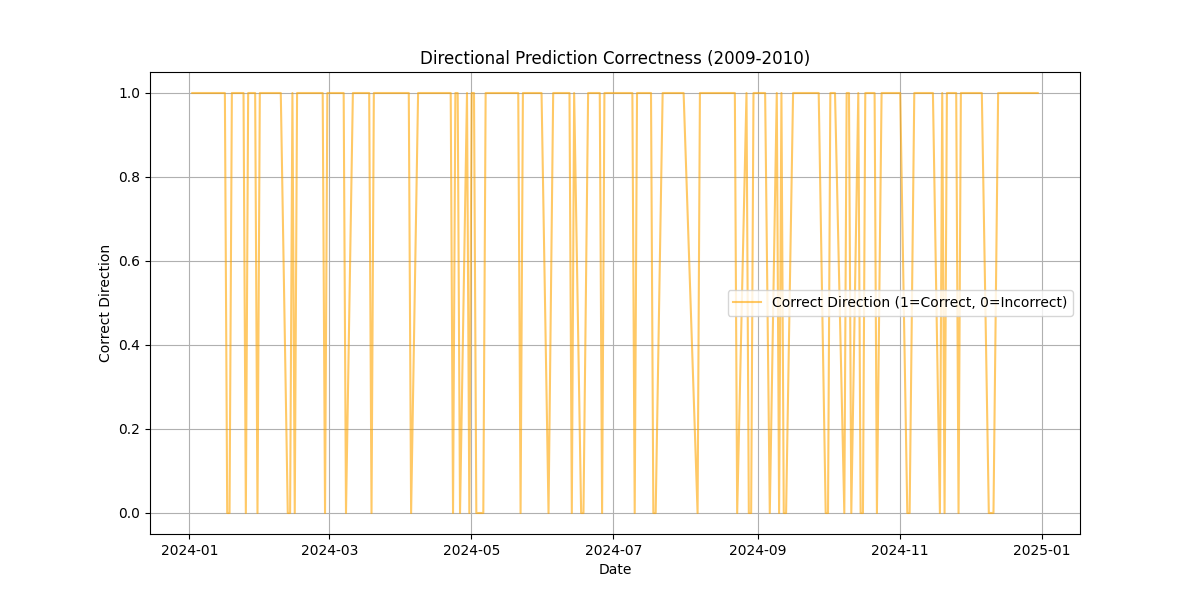
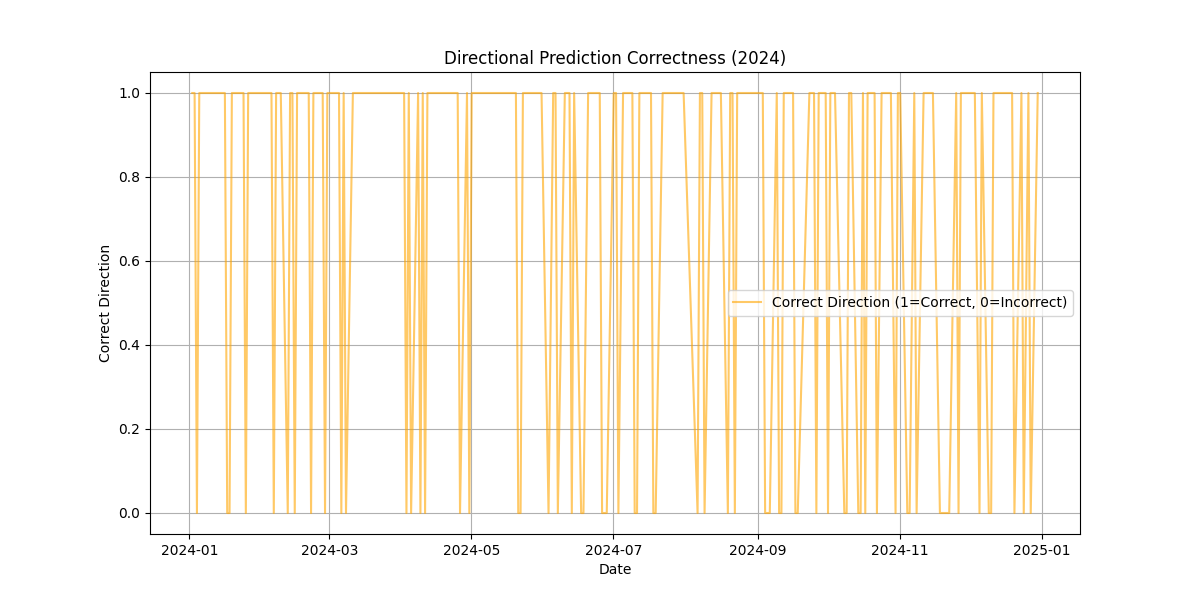
lol

diff --git a/gradient_boost/gradient_boosting.py b/gradient_boost/gradient_boosting.py
@@ -45,7 +45,7 @@ data = data[abs(data['price_diff']) <= 3 * price_diff_std]
 data = data.dropna()
 
 # Filter the data for training (2000-2008) and testing (2009-2010)
-train_data = data[(data['date'] >= '2000-01-01') & (data['date'] <= '2001-12-31')]
+train_data = data[(data['date'] >= '2023-01-01') & (data['date'] <= '2023-12-31')]
 test_data = data[(data['date'] >= '2024-01-01') & (data['date'] <= '2024-12-31')]
 
 # Define features (X) and target (y)

diff --git a/linear_regression/linear_regression.py b/linear_regression/linear_regression.py
@@ -49,7 +49,7 @@ data = data[abs(data['price_diff']) <= 3 * price_diff_std]
 data = data.dropna()
 
 # Filter the data for training (2000-2008) and testing (2009-2010)
-train_data = data[(data['date'] >= '2000-01-01') & (data['date'] <= '2001-12-31')]
+train_data = data[(data['date'] >= '2023-01-01') & (data['date'] <= '2023-12-31')]
 test_data = data[(data['date'] >= '2024-01-01') & (data['date'] <= '2024-12-31')]
 
 # Define features (X) and target (y)
